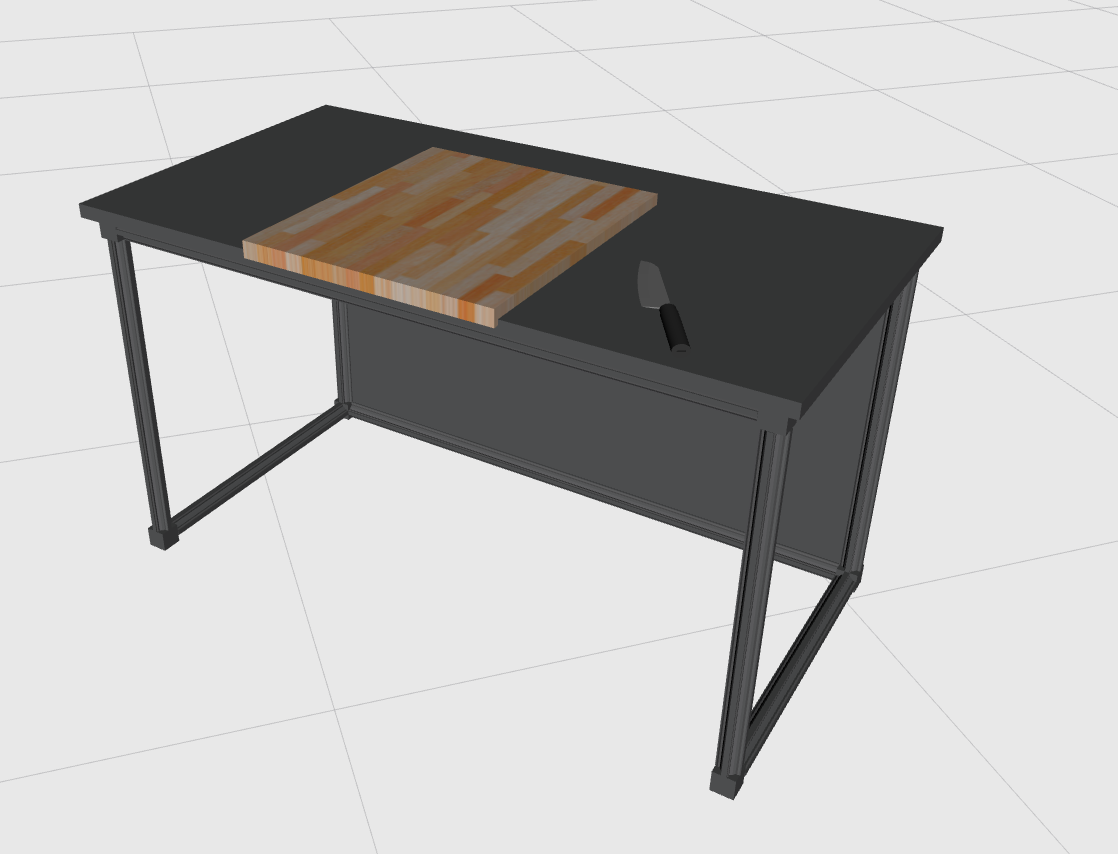
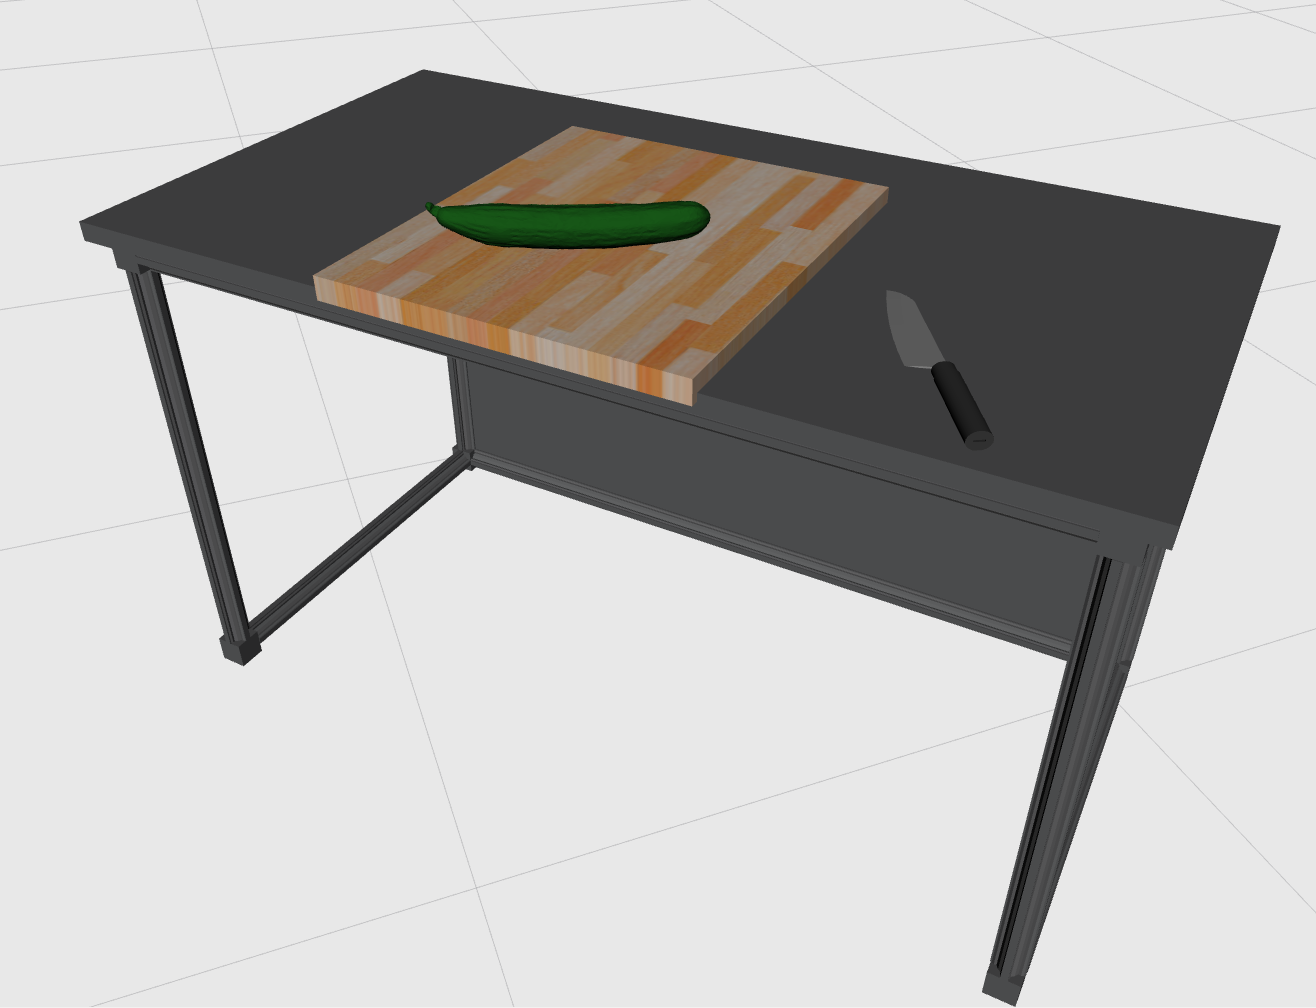
Added cucumber to cutting world.

diff --git a/iai_dlr_cutting_demo/README.md b/iai_dlr_cutting_demo/README.md
@@ -5,7 +5,7 @@ A set of maps describing the cutting setups in Oberpfaffenhofen and Bremen.
 
 ## Installation
 ```shell
-$ rosrun iai_cad_downloader download-cad-models.py kitchen/hand-tools kitchen/furniture/justins_table_at_dlr kitchen/tableware
+$ rosrun iai_cad_downloader download-cad-models.py kitchen/hand-tools kitchen/furniture/justins_table_at_dlr kitchen/tableware kitchen/food-drinks
 ```
 
 ## Display
